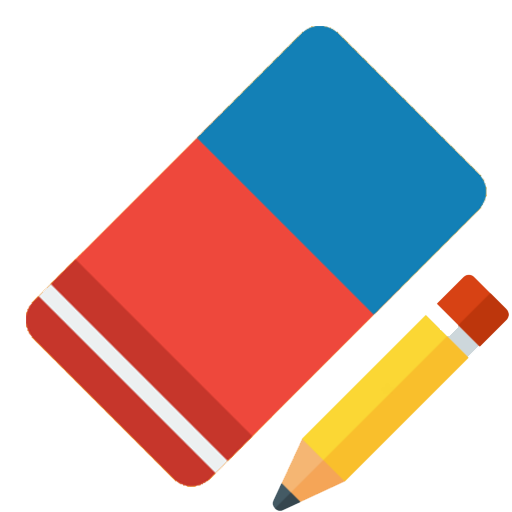
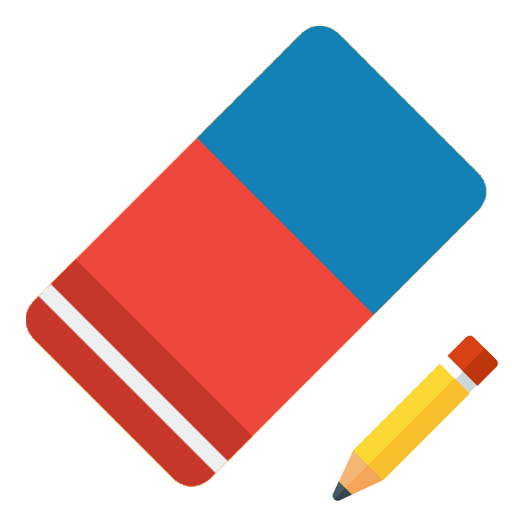
Changed erase-pic; Auto pencil from erase

Changed region(s): [[0.5312, 0.5312, 1.0, 1.0]]

diff --git a/SMARTer Board/src/com/gelb/smarterboard/Main.java b/SMARTer Board/src/com/gelb/smarterboard/Main.java
@@ -12,27 +12,23 @@ import javafx.fxml.FXML;
 import javafx.fxml.FXMLLoader;
 import javafx.geometry.NodeOrientation;
 import javafx.scene.Cursor;
-import javafx.scene.ImageCursor;
 import javafx.scene.Scene;
 import javafx.scene.canvas.Canvas;
 import javafx.scene.canvas.GraphicsContext;
 import javafx.scene.control.Button;
 import javafx.scene.control.MenuItem;
-import javafx.scene.control.Spinner;
-import javafx.scene.control.SpinnerValueFactory;
 import javafx.scene.image.Image;
 import javafx.scene.image.ImageView;
 import javafx.scene.input.MouseEvent;
 import javafx.scene.layout.AnchorPane;
 import javafx.scene.paint.Color;
-import javafx.scene.shape.Circle;
 import javafx.stage.Screen;
 import javafx.stage.Stage;
 
 
 public class Main extends Application {
 
-	int LINE_WIDTH = 3;
+	int LINE_WIDTH = 5;
 	Color LINE_COLOR = Color.BLACK;
 	Color SHAPE_COLOR = Color.GREEN;
 	boolean writing = true;
@@ -184,7 +180,7 @@ public class Main extends Application {
 		{
 			writing = true;
 			LINE_WIDTH = 5;
-			graphicsContext.setStroke(Color.WHITE);
+			graphicsContext.setStroke(LINE_COLOR);
 			showColor.setVisible(true);
 			mode.setImage(new Image(getClass().getResource("write.png").toExternalForm()));
 		}
@@ -200,6 +196,8 @@ public class Main extends Application {
 			Button clickedBtn  = (Button) event.getSource();
 			LINE_COLOR = hex2Rgb(clickedBtn.getId());
 			showColor.setStyle("-fx-background-radius: 40; -fx-background-color: "+clickedBtn.getId().toString()+";");
+			if (!writing)
+				changeMode(null);
 		}catch (Exception ex) {ex.printStackTrace();}
 	}
 
